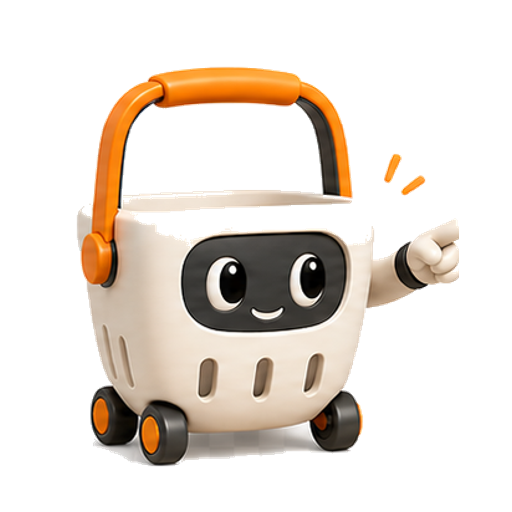
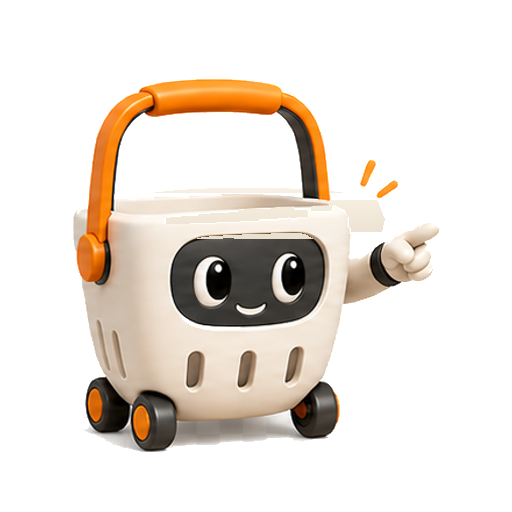
Fix mini cart mascot alpha cleanup

Changed region(s): [[0.125, 0.125, 0.9062, 0.9375]]

diff --git a/PROJECT_MEMORY.md b/PROJECT_MEMORY.md
@@ -5,7 +5,7 @@
 * Şu an ne yapıyoruz?
   * Supabase Postgres'e geçişin P1 kısmı tamamlandı: Prisma migration Supabase'e uygulandı ve mock commerce datası gerçek DB'ye seed edildi.
 * Son değişiklik neydi?
-  * `Mini Sepet Arkadaşı` asset seti üretildi, 6 ayrı transparent PNG olarak public asset klasörüne taşındı ve Floating Agent widget'ına state bazlı bağlandı.
+  * `Mini Sepet Arkadaşı` PNG asset'leri yeniden temizlendi; checkerboard kaynaklı alpha delikleri ve koyu zeminde siyah görünen gövde/yüz boşlukları kapatıldı.
 * Bir sonraki net adım ne?
   * Vercel env değerleri girilip deploy sonrası GitHub homepage alanı canlı demo URL ile güncellenecek.
 
@@ -1655,6 +1655,20 @@
   * Puppeteer QA: `/buyer/products` desktop açık/kapalı widget, mobil açık/kapalı widget ekranlarında taşma ve okunabilirlik kontrol edildi.
 * Not:
   * Orijinal generated sheet gerçek alpha içermediği için public'e sadece temizlenmiş ve ayrılmış final PNG asset'ler alındı; source sheet runtime'a eklenmedi.
+
+### 2026-05-19 Mini Sepet Arkadaşı PNG Alpha Cleanup
+
+* Problem:
+  * İlk ayrıştırmada generated sheet'in baked checkerboard arka planı bazı krem gövde/yüz pikselleriyle karıştı; koyu zeminde maskot üzerinde siyah/delik gibi görünen bölgeler oluştu.
+* Karar:
+  * Runtime code değiştirilmeden 6 public PNG asset yeniden çıkarıldı ve temizlendi.
+* Kapsam:
+  * `public/agent/mini-cart/mini-cart-*.png` dosyaları kaynak sheet'ten yeniden alpha çıkarımı, edge component cleanup ve iç gövde/yüz boşluğu onarımı ile güncellendi.
+  * Dış arka plan transparan bırakıldı; sadece maskot parçası olmayan edge fragment'ler silindi.
+* Doğrulama:
+  * Koyu ve açık zemin preview'larında siyah/delik görünümü ve checkerboard kalıntısı kontrol edildi.
+* Not:
+  * Bu adım asset-only düzeltmedir; `FloatingAgentPanel` state mapping'i ve CSS motion davranışı değişmedi.
 
 ### Güncelleme Kaydı
 
